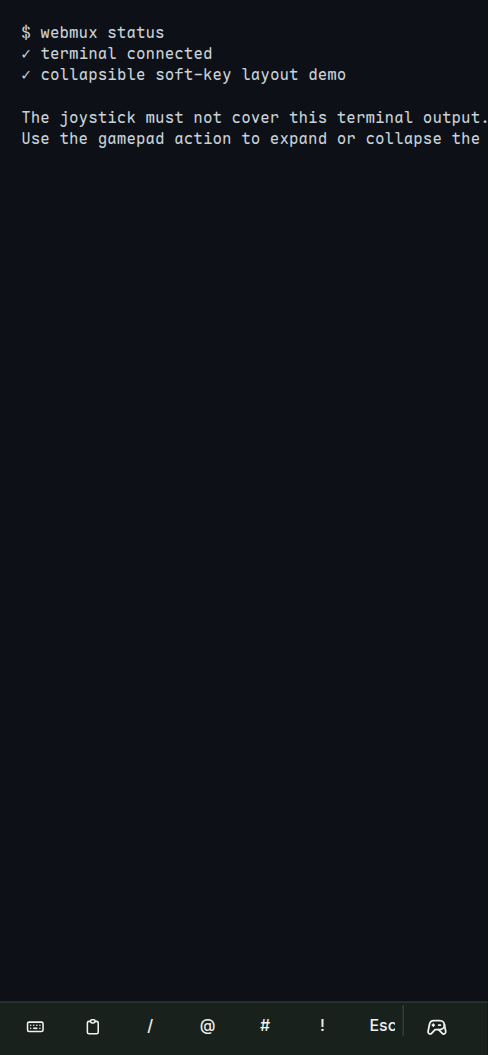
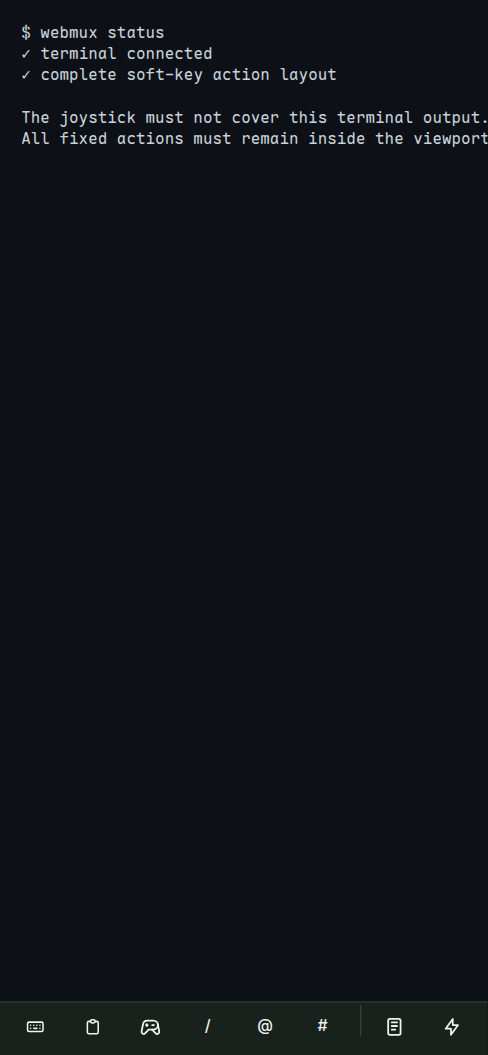
fix(web): keep soft-key actions in view

diff --git a/web/test/e2e/softkeys.spec.ts b/web/test/e2e/softkeys.spec.ts
@@ -28,8 +28,13 @@ test("mobile soft keys stay in one row with paste visible and all keys reachable
   const paste = bar.getByRole("button", { name: "粘贴", exact: true });
   const keyboard = bar.getByRole("button", { name: "唤起或收起键盘" });
   const quick = bar.getByRole("button", { name: "快捷指令", exact: true });
+  const gamepadToggle = bar.getByRole("button", {
+    name: "展开摇杆",
+    exact: true,
+  });
   for (const width of [320, 390, 844]) {
     await page.setViewportSize({ width, height: 844 });
+    await expect(gamepadToggle).toBeInViewport({ ratio: 1 });
     await expect(paste).toBeInViewport({ ratio: 1 });
     await expect(keyboard).toBeInViewport({ ratio: 1 });
     await expect(quick).toBeInViewport({ ratio: 1 });
@@ -478,6 +483,12 @@ test("touch gamepad mode lays out inside the soft-key bar without covering the t
 
   // Controlling client sees the gamepad in the bar and a deduplicated key row.
   await expect(gamepad).toBeVisible();
+  for (const button of await bar.locator(".soft-trailing button").all()) {
+    await expect(button).toBeInViewport({ ratio: 1 });
+  }
+  for (const button of await gamepad.getByRole("button").all()) {
+    await expect(button).toBeInViewport({ ratio: 1 });
+  }
   const terminalBox = await page.locator(".terminal-area").boundingBox();
   const gamepadBox = await gamepad.boundingBox();
   const barBox = await bar.boundingBox();

diff --git a/web/src/components/TerminalViewport.svelte b/web/src/components/TerminalViewport.svelte
@@ -87,6 +87,21 @@
     !hasTouchInput() && matchMedia("(pointer: fine)").matches;
 </script>
 
+{#snippet gamepadToggle()}
+  <Button
+    variant="ghost"
+    size="icon-sm"
+    aria-label={gamepadToggleLabel}
+    title={gamepadToggleLabel}
+    aria-expanded={gamepadActive}
+    disabled={!gamepadAvailable}
+    onmousedown={(event) => event.preventDefault()}
+    onclick={() => setTouchGamepad(!touchGamepad)}
+  >
+    <IconDeviceGamepad2 aria-hidden="true" />
+  </Button>
+{/snippet}
+
 <div class="terminal-column">
   <div class="terminal-area">
     <div
@@ -153,6 +168,7 @@
     modifiers={t.modifiers}
     locked={t.shiftLocked}
     gamepad={gamepadActive}
+    {gamepadToggle}
     {toggle}
     {lock}
     paste={() => {
@@ -161,18 +177,6 @@
     {keyboard}
   >
     {#snippet trailing()}
-      <Button
-        variant="ghost"
-        size="icon-sm"
-        aria-label={gamepadToggleLabel}
-        title={gamepadToggleLabel}
-        aria-expanded={gamepadActive}
-        disabled={!gamepadAvailable}
-        onmousedown={(event) => event.preventDefault()}
-        onclick={() => setTouchGamepad(!touchGamepad)}
-      >
-        <IconDeviceGamepad2 aria-hidden="true" />
-      </Button>
       {@render draftToggle()}{@render quickMenu("top", "icon-sm", "ghost")}
     {/snippet}
   </SoftKeys>

diff --git a/web/src/components/SoftKeys.svelte b/web/src/components/SoftKeys.svelte
@@ -18,6 +18,7 @@
     lock = () => {},
     paste,
     keyboard,
+    gamepadToggle,
     trailing,
   }: {
     send: (input: string) => void;
@@ -28,6 +29,7 @@
     lock?: (key: "shift") => void;
     paste: () => void;
     keyboard: () => void;
+    gamepadToggle?: Snippet;
     trailing?: Snippet;
   } = $props();
   const symbols = ["/", "@", "#", "!"] as const;
@@ -118,6 +120,7 @@
         onmousedown={keepFocus}
         onclick={paste}><IconClipboard aria-hidden="true" /></Button
       >
+      {@render gamepadToggle?.()}
       {#each symbols as symbol (symbol)}
         <Button
           variant="ghost"

diff --git a/web/test/browser/TerminalViewport.test.ts b/web/test/browser/TerminalViewport.test.ts
@@ -138,6 +138,8 @@ test("soft-key action expands and collapses the gamepad", async () => {
   });
 
   const expand = page.getByRole("button", { name: "展开摇杆" });
+  expect(expand.element().closest(".soft-row")).not.toBeNull();
+  expect(expand.element().closest(".soft-trailing")).toBeNull();
   await expect.element(expand).toHaveAttribute("aria-expanded", "false");
   await expand.click();
   expect(setTouchGamepad).toHaveBeenCalledWith(true);

diff --git a/docs/user-stories/verification-log-2026-11-shell.md b/docs/user-stories/verification-log-2026-11-shell.md
@@ -165,10 +165,10 @@
 
 本次局部核对（2026-11-09，软键盘摇杆布局）：软键盘摇杆改为栏内可折叠面板，不再遮挡终端。
 
-- 布局与开关：摇杆从终端内的绝对定位浮层迁入软键栏独立行，由栏体布局自然压缩终端区域，并随软键栏及控制状态显隐；软键栏右侧固定操作区提供“展开摇杆／收起摇杆”开关并保存本机偏好，移除终端菜单旧入口。
+- 布局与开关：摇杆从终端内的绝对定位浮层迁入软键栏独立行，由栏体布局自然压缩终端区域，并随软键栏及控制状态显隐；软键栏左侧的键盘与粘贴按钮旁提供“展开摇杆／收起摇杆”开关并保存本机偏好，移除终端菜单旧入口，避免占用右侧固定操作区。
 - 样式与交互：移除终端触摸淡化、悬浮穿透逻辑及按键组外层边框、背景与阴影，按键组直接沿用软键栏表面，保留按键映射、方向连发和滑动切向。
 
 - 更新的故事：US-H01；索引与故事数量不变。
 - 已运行：`make check`；`TerminalViewport`、`SoftKeys` Vitest 浏览器组件测试（10 项）；Playwright `softkeys.spec.ts`（9 项通过、9 项按平台跳过），覆盖移动端栏内几何关系、无横向溢出、控制切换、按键输入与桌面强制栏显隐联动。
-- 视觉核对：真实 Storybook 组件下桌面（1280×900）、平板（768×800）、手机（390×844）明暗主题前后对比，另核对 375×667、320×568、667×375 横屏与 1280×720；摇杆均位于软键栏内、不与终端重叠且无页面横向溢出，固定开关完整可见；补充手机折叠状态截图及展开、收起交互 GIF。
+- 视觉核对：真实 Storybook 组件下桌面（1280×900）、平板（768×800）、手机（390×844）明暗主题前后对比，另核对 375×667、320×568、667×375 横屏与 1280×720；摇杆均位于软键栏内、不与终端重叠且无页面横向溢出，开关完整可见；补充手机折叠状态截图及展开、收起交互 GIF。
 - 限制：未在 iOS/Android 真机核对；视觉截图通过强制显示软键栏生成，未验证系统 IME 开合；未运行其余未受影响的 E2E、Storybook 与性能套件。

diff --git a/docs/user-stories/terminal.md b/docs/user-stories/terminal.md
@@ -239,7 +239,7 @@
   - Shift 点按为一次性、长按约 0.5 秒锁定并在再次点按后解除，锁定时按钮显示锁图标；
   - 可与 Tab、方向键、Home/End、翻页组成带 Shift 的序列，点按或锁定后对虚拟与实体键盘的后续输入同样应用 Shift；
   - 符号映射按 US 布局；
-  - 软键栏右侧固定操作区提供“展开摇杆／收起摇杆”开关；折叠时显示普通软键，无法操控时开关禁用，摇杆随软键栏显示或隐藏；
+  - 软键栏左侧的键盘与粘贴按钮旁提供“展开摇杆／收起摇杆”开关；折叠时显示普通软键，无法操控时开关禁用，摇杆随软键栏显示或隐藏；
   - 展开偏好保存在本机浏览器；展开且当前客户端已接管控制、连接正常、进程未退出时，在软键栏内的独立一行显示摇杆（左侧 Esc、Tab、Ctrl+C 与回车 `Enter`，右侧左上角空格与十字方向键），观察模式或未接管时不显示；
   - 摇杆的方向键支持按住连发与不抬手滑动切向；摇杆激活时底部软键栏自动隐藏重复的 Esc、Tab、`↵`、方向键与 Ctrl+C（保留 Ctrl/Alt/Shift）；摇杆按键组直接沿用软键栏表面，不增加外层边框、背景或阴影；摇杆占用软键栏布局空间并自然压缩终端区域，不覆盖或拦截终端，终端仍可单指滑动滚动与长按选词。
 - **US-H02 主动开合键盘**：作为触摸设备使用者，我希望自己决定何时打开虚拟键盘，以便阅读和点选时保留屏幕空间。
